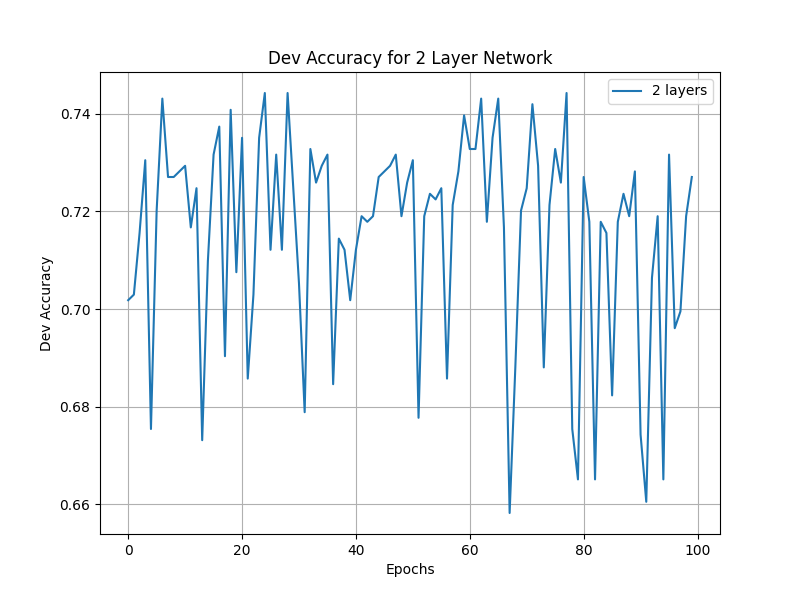
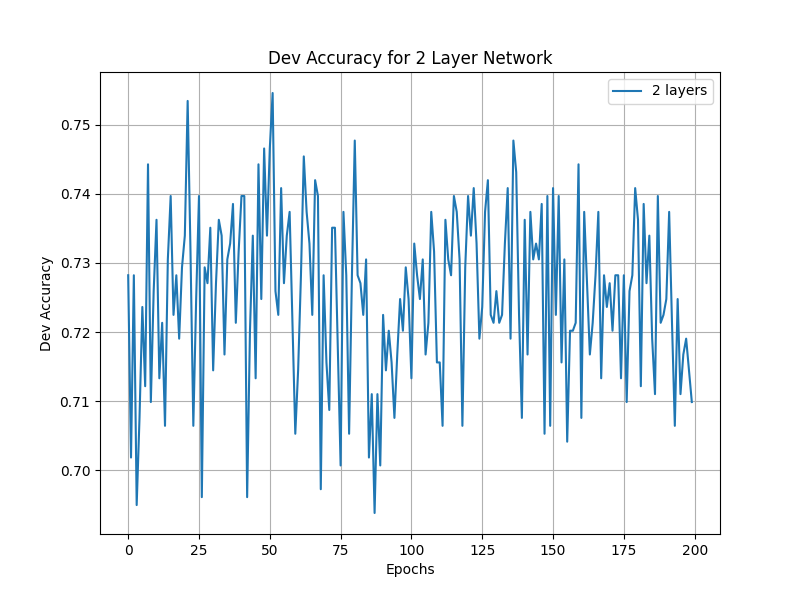
changed hyperparamters

diff --git a/PA1/DANmodels.py b/PA1/DANmodels.py
@@ -9,7 +9,7 @@ from collections import defaultdict
 
 
 class DAN(nn.Module):
-    def __init__(self, file: str, size1:int=300, size2:int=300, size3:int =300, drop_prob:float=0.16):
+    def __init__(self, file: str, size1:int=300, size2:int=300, drop_prob:float=0.1):
         super().__init__()
         self.wordembeddings = read_word_embeddings(file)
         self.embedding_layer = self.wordembeddings.get_initialized_embedding_layer()
@@ -17,16 +17,14 @@ class DAN(nn.Module):
         self.embedding_dim = self.embedding_layer.weight.size(1)
         self.layer1 = nn.Linear(self.embedding_dim, size1)
         self.layer2 = nn.Linear(size1, size2)
-        self.layer3 = nn.Linear(size2, size3)
-        self.output_layer = nn.Linear(size3, 2)
+        self.output_layer = nn.Linear(size2, 2)
         self.log_softmax = nn.Softmax(dim=1)
-        self.dropout = nn.Dropout(drop_prob)
+        self.input_dropout = nn.Dropout(drop_prob)
+        self.dropout = nn.Dropout(drop_prob / 3)
 
     def forward(self, word_indices):
-        # print(word_indices)
-        # size = word_indices.size(0)
-        # column_tensor = torch.arange(512).repeat(size, 1)
-        # column_tensor = torch.reshape(column_tensor, (size, 512))
+
+        word_indices = mask_tensor(word_indices)
 
         sentence_embeddings = self.embedding_layer(word_indices)
 
@@ -34,14 +32,29 @@ class DAN(nn.Module):
         mean_vector = self.dropout(mean_vector)
 
         mean_vector = F.relu(self.layer1(mean_vector))
+        mean_vector = self.dropout(mean_vector)
+        # mean_vector = self.dropout(mean_vector)
+
         # mean_vector = self.dropout(mean_vector)
 
         mean_vector = F.relu(self.layer2(mean_vector))
-        # mean_vector = self.dropout(mean_vector)
-
-        mean_vector = F.relu(self.layer3(mean_vector))
         mean_vector = self.log_softmax(self.output_layer(mean_vector))
         return mean_vector
+    
+def mask_tensor(tensor, mask_prob=0.15):
+    """
+    Masks values from the input tensor with a given probability.
+    :param tensor: Input tensor.
+    :param mask_prob: Probability of masking each element.
+    :return: Masked tensor.
+    """
+    # Create a mask with the same shape as the tensor
+    mask = (torch.rand(tensor.shape) > mask_prob).int()
+    
+    # Apply the mask to the tensor
+    masked_tensor = tensor * mask
+    
+    return masked_tensor
 
 class SentimentDatasetDAN(Dataset):
     def __init__(self, infile, word_embeddings, max_len=50):

diff --git a/PA1/test.py b/PA1/test.py
@@ -22,14 +22,26 @@ column_tensor = torch.arange(512).repeat(16, 1)
 
 tensor1 = torch.tensor([1, 2], dtype=torch.float)
 tensor2 = torch.tensor([2, 2])
-print(torch.nn.LogSoftmax(dim=0)(tensor1))
-print(embedding_layer.weight)
+# print(torch.nn.LogSoftmax(dim=0)(tensor1))
+# print(embedding_layer.weight)
+def mask_tensor(tensor, mask_prob=0.3):
+    """
+    Masks values from the input tensor with a given probability.
+    :param tensor: Input tensor.
+    :param mask_prob: Probability of masking each element.
+    :return: Masked tensor.
+    """
+    # Create a mask with the same shape as the tensor
+    mask = (torch.rand(tensor.shape) > mask_prob).int()
+    
+    # Apply the mask to the tensor
+    masked_tensor = tensor * mask
+    
+    return masked_tensor
 
 
-# print(column_tensor)
+tensor = torch.tensor([[1, 2, 3, 4,5 , 6, 7, 6], [3, 4, 5, 5, 5, 3 , 6, 6]], dtype=float)
+drop = mask_tensor(tensor)
 
-# print(wordembeddings.get_embedding('and'))
-
-
-# print(word_embedding2)
-# print(word_embedding)
+for i in range(3):
+    print(drop)

diff --git a/PA1/main.py b/PA1/main.py
@@ -69,12 +69,12 @@ def eval_epoch(data_loader, model, loss_fn, optimizer):
 
 # Experiment function to run training and evaluation for multiple epochs
 def experiment(model, train_loader, test_loader):
-    loss_fn = nn.NLLLoss()
-    optimizer = torch.optim.Adam(model.parameters(), lr=0.0003, weight_decay=1e-6)
+    loss_fn = nn.CrossEntropyLoss()
+    optimizer = torch.optim.Adam(model.parameters(), lr=0.001, weight_decay=1e-5)
 
     all_train_accuracy = []
     all_test_accuracy = []
-    for epoch in range(100):
+    for epoch in range(200):
         train_accuracy, train_loss = train_epoch(train_loader, model, loss_fn, optimizer)
         all_train_accuracy.append(train_accuracy)
 
@@ -157,7 +157,7 @@ def main():
 
     elif args.model == "DAN":
         start_time = time.time()
-        print('\n2 layers:')
+        print('\nDAN, 3 layers:')
         nn2_train_accuracy, nn2_test_accuracy = experiment(DAN(file='data/glove.6B.50d-relativized.txt'), train_loader, test_loader)
 
         # Plot the training accuracy
